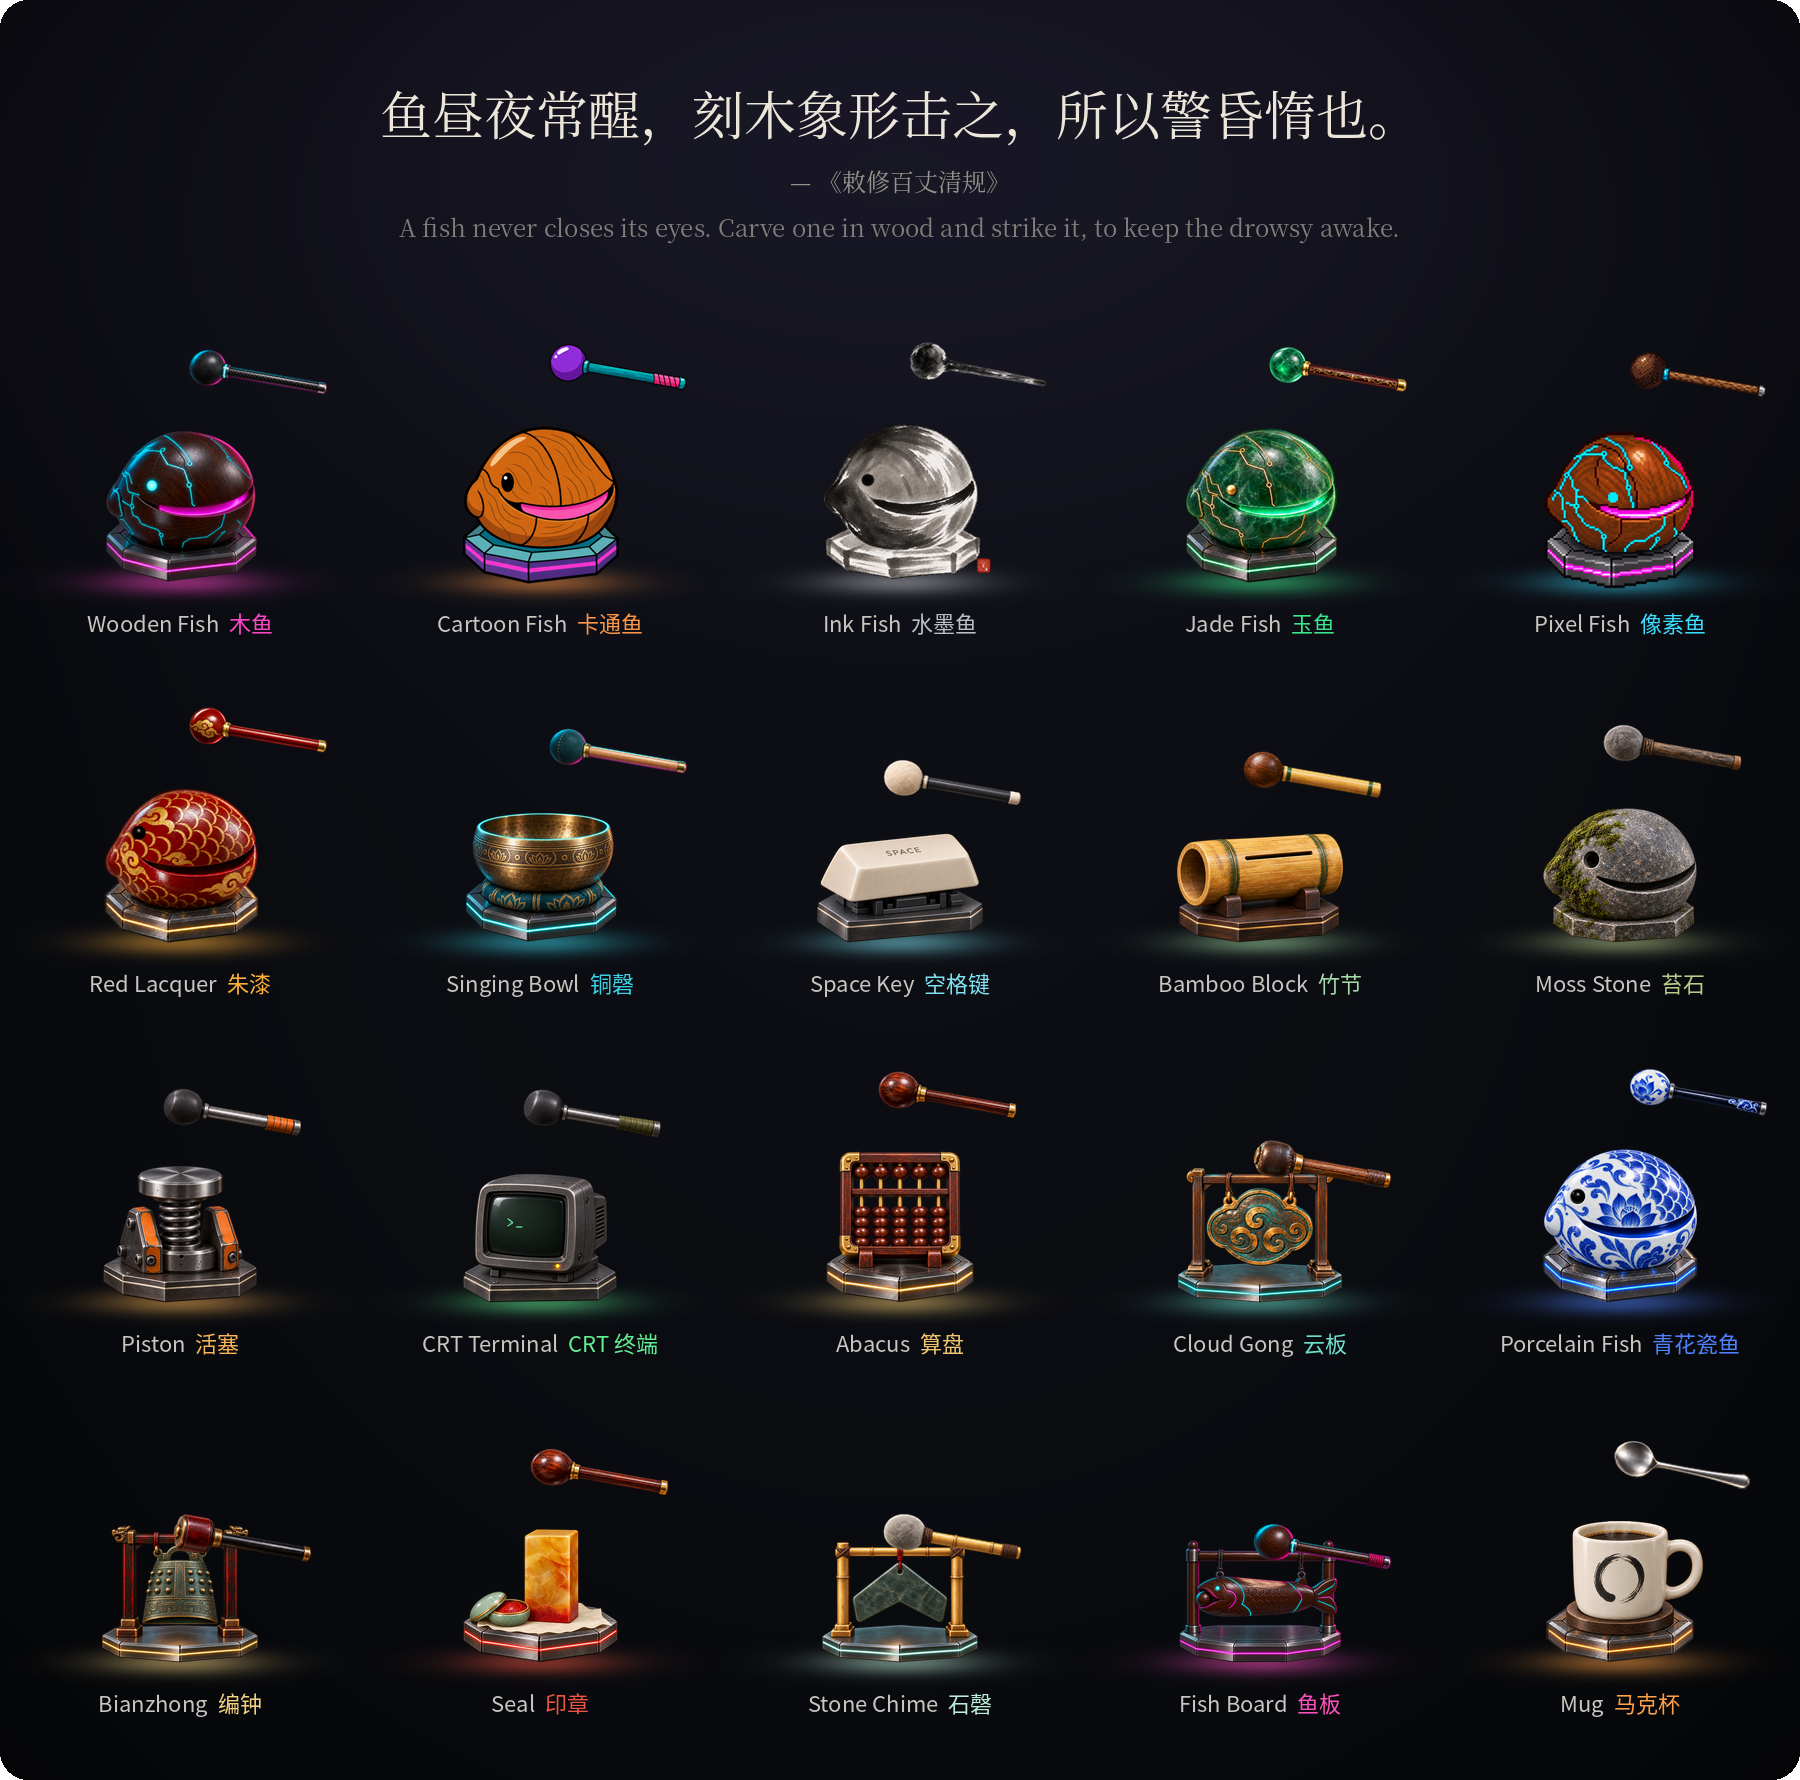
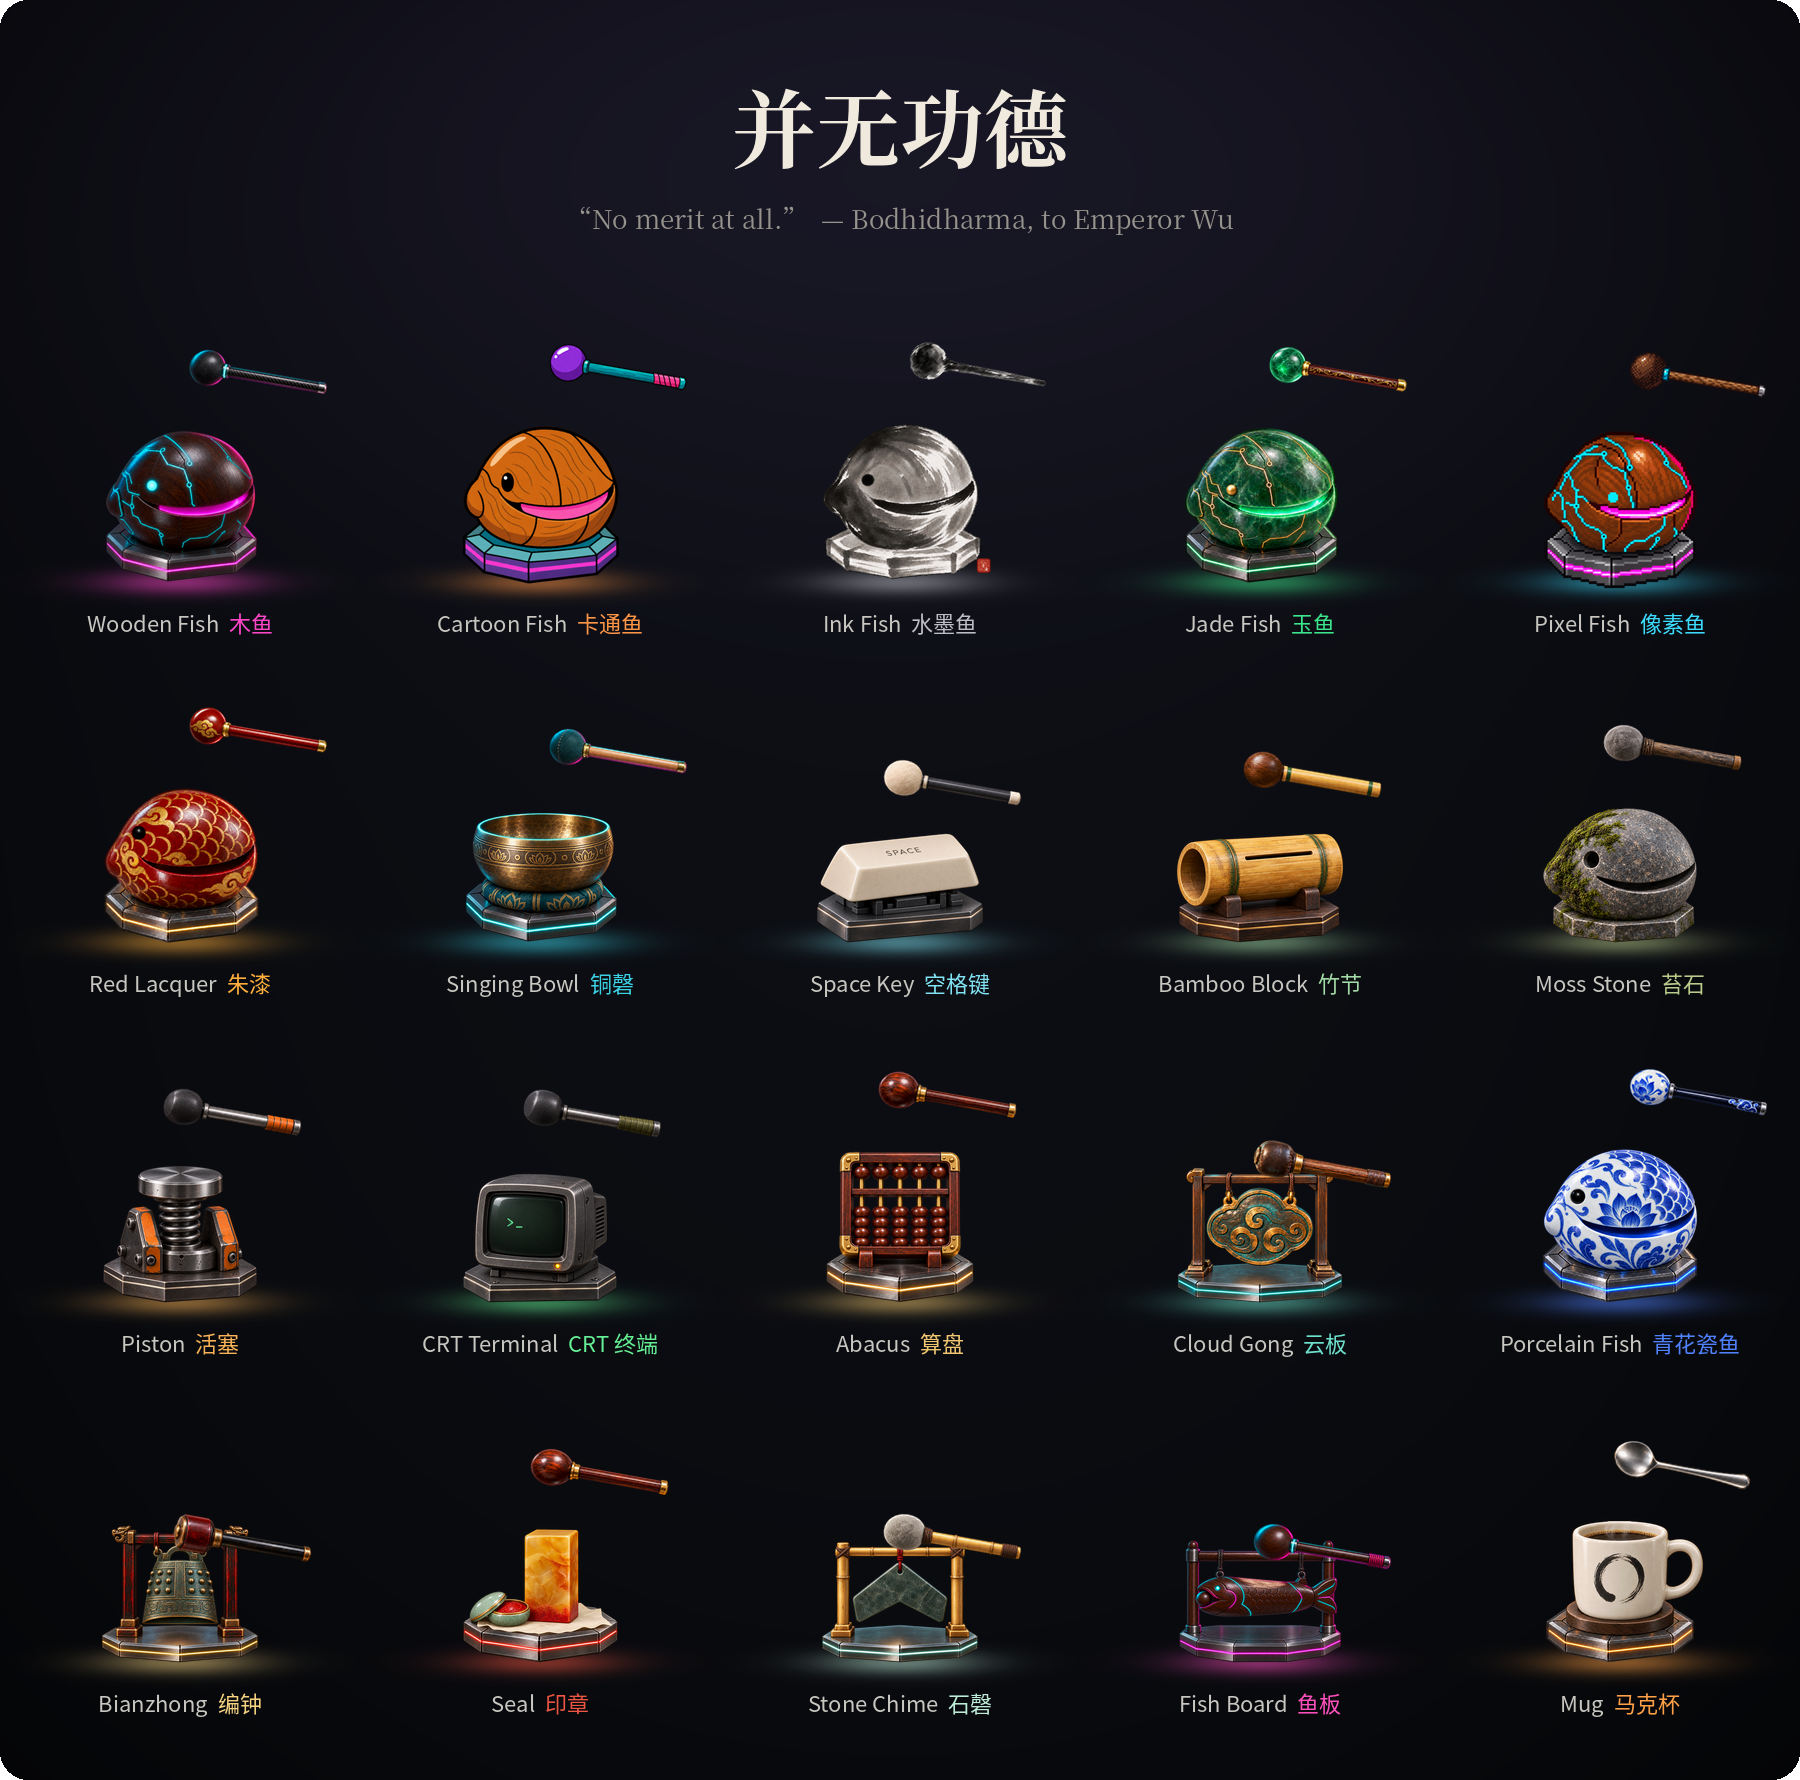
Head the skins picture with 并无功德
Bodhidharma's answer to Emperor Wu, from the video's merit gag, replaces
the line from the Pure Rules above the skins.

Amp-Thread-ID: https://ampcode.com/threads/T-01a1a5bb-32db-76e4-9ab5-a061334aedcc

Changed region(s): [[0.2178, 0.0309, 0.7778, 0.1545], [0.3111, 0.1236, 0.4356, 0.1545]]

diff --git a/tools/draw_skins_sheet.py b/tools/draw_skins_sheet.py
@@ -1,6 +1,6 @@
 """Draw docs/skins.png, the README's picture of every built-in skin.
 
-The opening line of the show-off video sits above the skins, each resting on
+Bodhidharma's answer from the show-off video, 并无功德, sits above the skins, each resting on
 its pedestal with its mallet raised and its name below. The skins are drawn
 by showoff_video.py, so the picture and the video stay alike.
 
@@ -55,10 +55,8 @@ def cell(k):
 def sheet():
     img = background()
     d = ImageDraw.Draw(img)
-    centered(d, (W / 2, 112), "鱼昼夜常醒，刻木象形击之，所以警昏惰也。", v.font("serif", 52), (236, 230, 218))
-    centered(d, (W / 2, 180), "— 《敕修百丈清规》", v.font("serif", 24), (150, 146, 140))
-    centered(d, (W / 2, 226), "A fish never closes its eyes. Carve one in wood and strike it, to keep the drowsy awake.",
-             v.font("serif", 24), (128, 126, 122))
+    centered(d, (W / 2, 125), "并无功德", v.font("serifb", 84), (240, 234, 222))
+    centered(d, (W / 2, 218), "“No merit at all.”  — Bodhidharma, to Emperor Wu", v.font("serif", 26), (150, 146, 140))
     for k in range(v.N):
         r, c = divmod(k, COLS)
         left = (W - COLS * CELL) // 2 + c * CELL

diff --git a/README.md b/README.md
@@ -4,7 +4,7 @@ English · [简体中文](README.zh-Hans.md)
 
 A tiny wooden fish that lives on your Mac's desktop. Click it to knock and hear a soft *tok*. That's all. You earn no merit (功德) for it.
 
-![Under the line 「鱼昼夜常醒，刻木象形击之，所以警昏惰也。」 ("A fish never closes its eyes. Carve one in wood and strike it, to keep the drowsy awake."), Plinth's twenty built-in skins, each on its pedestal with its mallet raised: the wooden fish, a cartoon fish, an ink-wash fish, a jade fish, a pixel-art fish, a red lacquer fish, a singing bowl, a space key, a bamboo block, a moss stone, a piston, a CRT terminal, an abacus, a cloud gong, a blue-and-white porcelain fish, a bianzhong bell, a seal, a stone chime, a fish board, and a mug](docs/skins.png)
+![Under 「并无功德」 ("No merit at all"), Plinth's twenty built-in skins, each on its pedestal with its mallet raised: the wooden fish, a cartoon fish, an ink-wash fish, a jade fish, a pixel-art fish, a red lacquer fish, a singing bowl, a space key, a bamboo block, a moss stone, a piston, a CRT terminal, an abacus, a cloud gong, a blue-and-white porcelain fish, a bianzhong bell, a seal, a stone chime, a fish board, and a mug](docs/skins.png)
 
 The wooden fish (*muyu*) is a hollow temple block that Buddhist monks strike to keep time while chanting. Old monastic rules say it is shaped like a fish because a fish never closes its eyes, so its knock keeps the drowsy awake. Plinth puts one on a small neon pedestal next to your windows.
 

diff --git a/README.zh-Hans.md b/README.zh-Hans.md
@@ -4,7 +4,7 @@
 
 一条住在 Mac 桌面上的小木鱼。点它一下，笃的一声，仅此而已，敲了也不积功德。
 
-![「鱼昼夜常醒，刻木象形击之，所以警昏惰也。」一句之下，Plinth 自带的二十款皮肤，各自立在底座上，木槌悬在上方：木鱼、卡通鱼、水墨鱼、玉鱼、像素鱼、朱漆、铜磬、空格键、竹节、苔石、活塞、CRT 终端、算盘、云板、青花瓷鱼、编钟、印章、石磬、鱼板、马克杯](docs/skins.png)
+![「并无功德」四字之下，Plinth 自带的二十款皮肤，各自立在底座上，木槌悬在上方：木鱼、卡通鱼、水墨鱼、玉鱼、像素鱼、朱漆、铜磬、空格键、竹节、苔石、活塞、CRT 终端、算盘、云板、青花瓷鱼、编钟、印章、石磬、鱼板、马克杯](docs/skins.png)
 
 寺院诵经时用木鱼打拍子。至于为什么刻成鱼的样子，《敕修百丈清规》里有一句：「鱼昼夜常醒，刻木象形击之，所以警昏惰也。」Plinth 把这样一条木鱼放在小小的霓虹底座上，摆在你的窗口旁边。
 
